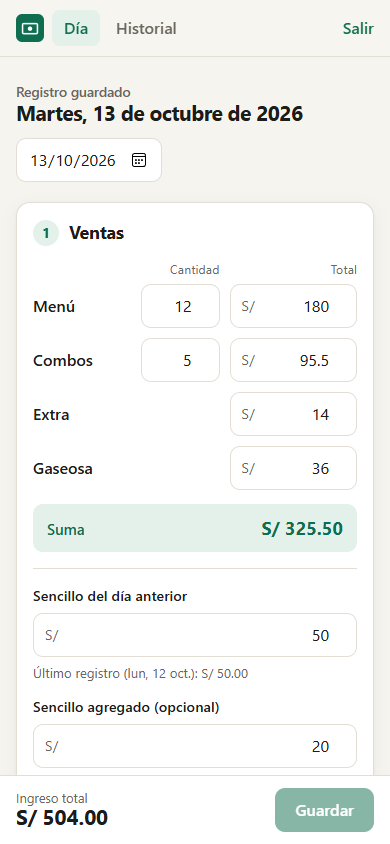
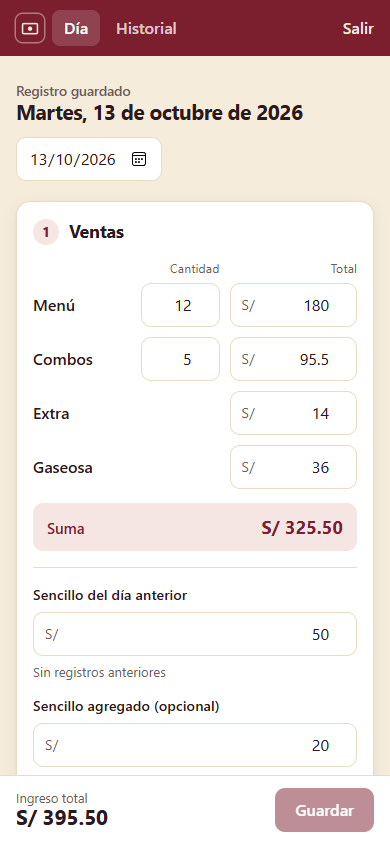
Colores del restaurante y total de ventas + sencillo
- Paleta crema, guinda y blanco (encabezado guinda, fondo crema)
- Nuevo total en Ventas: suma de ventas + sencillo anterior + agregado,
  con aviso de si coincide con el ingreso total
- Capturas del README actualizadas

diff --git a/client/src/estilos.css b/client/src/estilos.css
@@ -1,41 +1,26 @@
+/* Colores del restaurante: crema, guinda y blanco. */
 :root {
-  --fondo: #f6f4ef;
-  --superficie: #ffffff;
-  --superficie-2: #f1efe9;
-  --borde: #e2ded4;
-  --texto: #1d1c19;
-  --texto-suave: #6b675e;
-  --acento: #0f6e4f;
-  --acento-fuerte: #0a573e;
-  --acento-suave: #e3f1ea;
-  --sobre-acento: #ffffff;
+  --crema: #f5ecdc;
+  --guinda: #7b1e2e;
+  --blanco: #ffffff;
+
+  --fondo: var(--crema);
+  --superficie: var(--blanco);
+  --superficie-2: #faf5ec;
+  --borde: #e8dcc6;
+  --texto: #2b1a1c;
+  --texto-suave: #6f5c57;
+  --acento: var(--guinda);
+  --acento-fuerte: #5e1421;
+  --acento-suave: #f6e6e3;
+  --sobre-acento: var(--blanco);
   --peligro: #b3261e;
   --peligro-suave: #fbe9e7;
   --aviso: #8a5a00;
-  --sombra: 0 1px 2px rgb(30 25 15 / 0.05), 0 4px 16px rgb(30 25 15 / 0.05);
+  --sombra: 0 1px 2px rgb(60 20 25 / 0.05), 0 4px 16px rgb(60 20 25 / 0.06);
   --radio: 14px;
   --fuente: system-ui, -apple-system, 'Segoe UI', Roboto, sans-serif;
   color-scheme: light;
-}
-
-@media (prefers-color-scheme: dark) {
-  :root {
-    --fondo: #121412;
-    --superficie: #1b1e1b;
-    --superficie-2: #232723;
-    --borde: #2f342f;
-    --texto: #ecebe6;
-    --texto-suave: #a3a69f;
-    --acento: #3fbf8c;
-    --acento-fuerte: #5fd3a3;
-    --acento-suave: #173328;
-    --sobre-acento: #06251a;
-    --peligro: #ff8a80;
-    --peligro-suave: #3a1d1b;
-    --aviso: #f0b450;
-    --sombra: none;
-    color-scheme: dark;
-  }
 }
 
 *, *::before, *::after { box-sizing: border-box; }
@@ -91,9 +76,8 @@ button, input { font: inherit; color: inherit; }
 
 .cabecera {
   position: sticky; top: 0; z-index: 10;
-  background: color-mix(in srgb, var(--fondo) 88%, transparent);
-  backdrop-filter: blur(10px);
-  border-bottom: 1px solid var(--borde);
+  background: var(--guinda);
+  color: var(--blanco);
 }
 .cabecera-interior {
   display: flex; align-items: center; gap: 16px;
@@ -101,14 +85,17 @@ button, input { font: inherit; color: inherit; }
 }
 .marca { display: flex; align-items: center; gap: 10px; font-weight: 700; letter-spacing: -0.01em; }
 .nav { display: flex; gap: 4px; margin-left: auto; }
+.marca img { border-radius: 7px; box-shadow: 0 0 0 1.5px rgb(255 255 255 / 0.4); }
 .nav a {
   padding: 6px 12px; border-radius: 8px;
-  color: var(--texto-suave); text-decoration: none; font-weight: 500;
+  color: rgb(255 255 255 / 0.75); text-decoration: none; font-weight: 500;
 }
-.nav a:hover { color: var(--texto); }
-.nav a.active { background: var(--acento-suave); color: var(--acento); }
+.nav a:hover { color: var(--blanco); }
+.nav a.active { background: rgb(255 255 255 / 0.16); color: var(--blanco); }
 .usuario { display: flex; align-items: center; gap: 12px; }
-.usuario-nombre { color: var(--texto-suave); font-size: 0.9rem; }
+.usuario-nombre { color: rgb(255 255 255 / 0.75); font-size: 0.9rem; }
+.cabecera .boton-texto { color: var(--crema); }
+.cabecera :focus-visible { outline-color: var(--crema); }
 
 .contenido { max-width: 1100px; margin: 0 auto; padding: 24px 16px 120px; }
 
@@ -216,6 +203,11 @@ button, input { font: inherit; color: inherit; }
 .total-destacado { background: var(--acento-suave); }
 .total-destacado span { color: var(--acento); font-weight: 600; }
 .total-destacado output { color: var(--acento); font-size: 1.15rem; font-weight: 700; }
+
+.cuadre { font-size: 0.85rem; font-weight: 500; margin-top: -6px; }
+.cuadre-ok { color: var(--acento); }
+.cuadre-ok::before { content: '✓ '; }
+.cuadre-diferencia { color: var(--aviso); }
 
 .formula { font-size: 0.8rem; color: var(--texto-suave); margin-bottom: -6px; }
 

diff --git a/client/src/paginas/Dia.jsx b/client/src/paginas/Dia.jsx
@@ -1,7 +1,7 @@
 import { useEffect, useMemo, useState } from 'react';
 import { useSearchParams } from 'react-router-dom';
 import { api } from '../api.js';
-import { CAMPOS, calcularTotales } from '../../../shared/calculos.js';
+import { CAMPOS, calcularTotales, redondear } from '../../../shared/calculos.js';
 import { fechaCorta, fechaLarga, hoy, soles } from '../formato.js';
 import Campo from '../componentes/Campo.jsx';
 
@@ -25,6 +25,20 @@ function Total({ etiqueta, valor, destacado = false }) {
       <span>{etiqueta}</span>
       <output>{soles(valor)}</output>
     </div>
+  );
+}
+
+// Compara el total de ventas + sencillo con el ingreso total.
+function Cuadre({ esperado, ingreso }) {
+  const diferencia = redondear(ingreso - esperado);
+  if (esperado === 0 && ingreso === 0) return null;
+  if (diferencia === 0) {
+    return <p className="cuadre cuadre-ok">Coincide con el ingreso total</p>;
+  }
+  return (
+    <p className="cuadre cuadre-diferencia">
+      {diferencia > 0 ? 'Sobran' : 'Faltan'} {soles(Math.abs(diferencia))} respecto al ingreso total ({soles(ingreso)})
+    </p>
   );
 }
 
@@ -190,6 +204,11 @@ export default function Dia() {
             nota: 'Si se puso más sencillo del que quedó ayer.',
           })}
           <Total etiqueta="Sencillo inicial" valor={t.sencilloInicial} />
+
+          <div className="separador" />
+
+          <Total etiqueta="Total ventas + sencillo" valor={t.totalVentasSencillo} destacado />
+          <Cuadre esperado={t.totalVentasSencillo} ingreso={t.ingresoTotal} />
         </section>
 
         <section className="tarjeta" aria-labelledby="t-sencillo">

diff --git a/shared/calculos.js b/shared/calculos.js
@@ -35,9 +35,11 @@ const sumar = (...valores) => redondear(valores.reduce((acc, v) => acc + num(v),
 export function calcularTotales(r) {
   const sumaVentas = sumar(r.menu_total, r.combo_total, r.extra_total, r.gaseosa_total);
   const sencilloInicial = sumar(r.sencillo_anterior, r.sencillo_agregado);
+  // Lo que debería haber en caja: debe concordar con el ingreso total.
+  const totalVentasSencillo = sumar(sumaVentas, sencilloInicial);
   const sumaSencillo = sumar(r.sencillo_1, r.sencillo_2, r.sencillo_3, r.sencillo_4);
   const ingresoYape = redondear(num(r.yape) - num(r.yape_anterior));
   const ingresoTotal = sumar(sumaSencillo, r.duro, r.tarjeta, ingresoYape);
 
-  return { sumaVentas, sencilloInicial, sumaSencillo, ingresoYape, ingresoTotal };
+  return { sumaVentas, sencilloInicial, totalVentasSencillo, sumaSencillo, ingresoYape, ingresoTotal };
 }

diff --git a/shared/calculos.test.js b/shared/calculos.test.js
@@ -12,6 +12,12 @@ test('sencillo inicial = sencillo del día anterior + sencillo agregado', () => 
   assert.equal(t.sencilloInicial, 70);
 });
 
+test('total ventas + sencillo = suma de ventas + sencillo anterior + agregado', () => {
+  const base = { menu_total: 150, combo_total: 80, extra_total: 10, gaseosa_total: 20, sencillo_anterior: 50 };
+  assert.equal(calcularTotales(base).totalVentasSencillo, 310);
+  assert.equal(calcularTotales({ ...base, sencillo_agregado: 15 }).totalVentasSencillo, 325);
+});
+
 test('suma de sencillo junta los cuatro apartados', () => {
   const t = calcularTotales({ sencillo_1: 10, sencillo_2: 20.5, sencillo_3: 5, sencillo_4: 4.5 });
   assert.equal(t.sumaSencillo, 40);

diff --git a/client/index.html b/client/index.html
@@ -3,7 +3,7 @@
   <head>
     <meta charset="UTF-8" />
     <meta name="viewport" content="width=device-width, initial-scale=1, viewport-fit=cover" />
-    <meta name="theme-color" content="#0f6e4f" />
+    <meta name="theme-color" content="#7b1e2e" />
     <meta name="description" content="Registro diario de ventas y caja." />
     <link rel="icon" href="/icono.svg" type="image/svg+xml" />
     <title>Caja del Día</title>

diff --git a/README.md b/README.md
@@ -10,12 +10,12 @@ Aplicación web para registrar las ventas diarias y cuadrar la caja de un negoci
 
 - **Cuentas de usuario** con registro e inicio de sesión. Las contraseñas se guardan con hash bcrypt y la sesión va en una cookie `httpOnly`.
 - **Registro del día en tres apartados**:
-  1. **Ventas**: menús y combos (cantidad y total), extra y gaseosa, con la suma automática. Además, el sencillo del día anterior (se autocompleta) y el sencillo agregado.
+  1. **Ventas**: menús y combos (cantidad y total), extra y gaseosa, con la suma automática. Además, el sencillo del día anterior (se autocompleta) y el sencillo agregado. Al final aparece el **total de ventas + sencillo**, que se compara con el ingreso total para saber si la caja cuadra.
   2. **Sencillo**: cuatro montos que se suman.
   3. **Ingresos**: duro, tarjeta y Yape. El **ingreso Yape** es el Yape del día menos el Yape anterior (se autocompleta y se puede corregir si se gastó dinero de ahí). El **ingreso total** es sencillo + duro + tarjeta + ingreso Yape.
 - **Totales en vivo** mientras se escribe, y aviso de cambios sin guardar.
 - **Historial mensual** con días registrados, ventas del mes, ingreso total y promedio por día. Cualquier día se puede abrir y corregir.
-- **Diseño adaptable** al celular y con modo oscuro automático.
+- **Diseño adaptable** al celular, con los colores del restaurante (crema, guinda y blanco).
 
 <p align="center">
   <img src="docs/historial.png" alt="Historial mensual" width="560">
